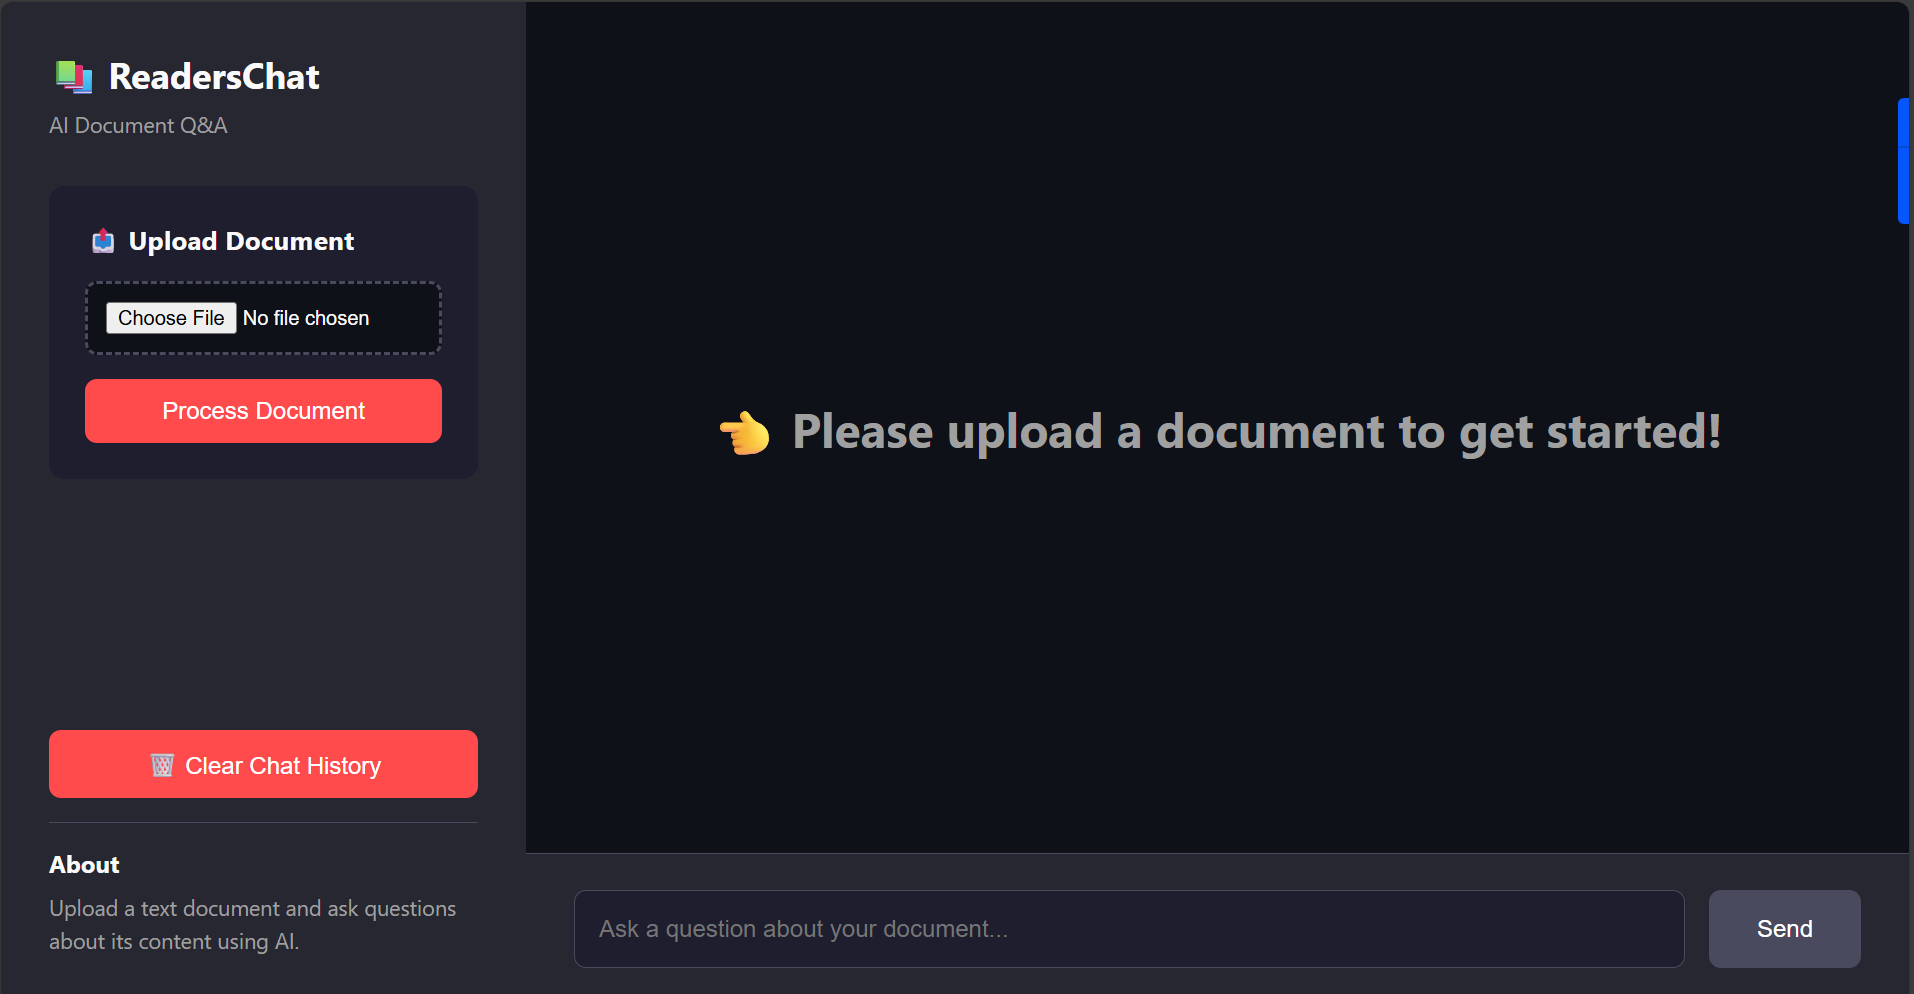
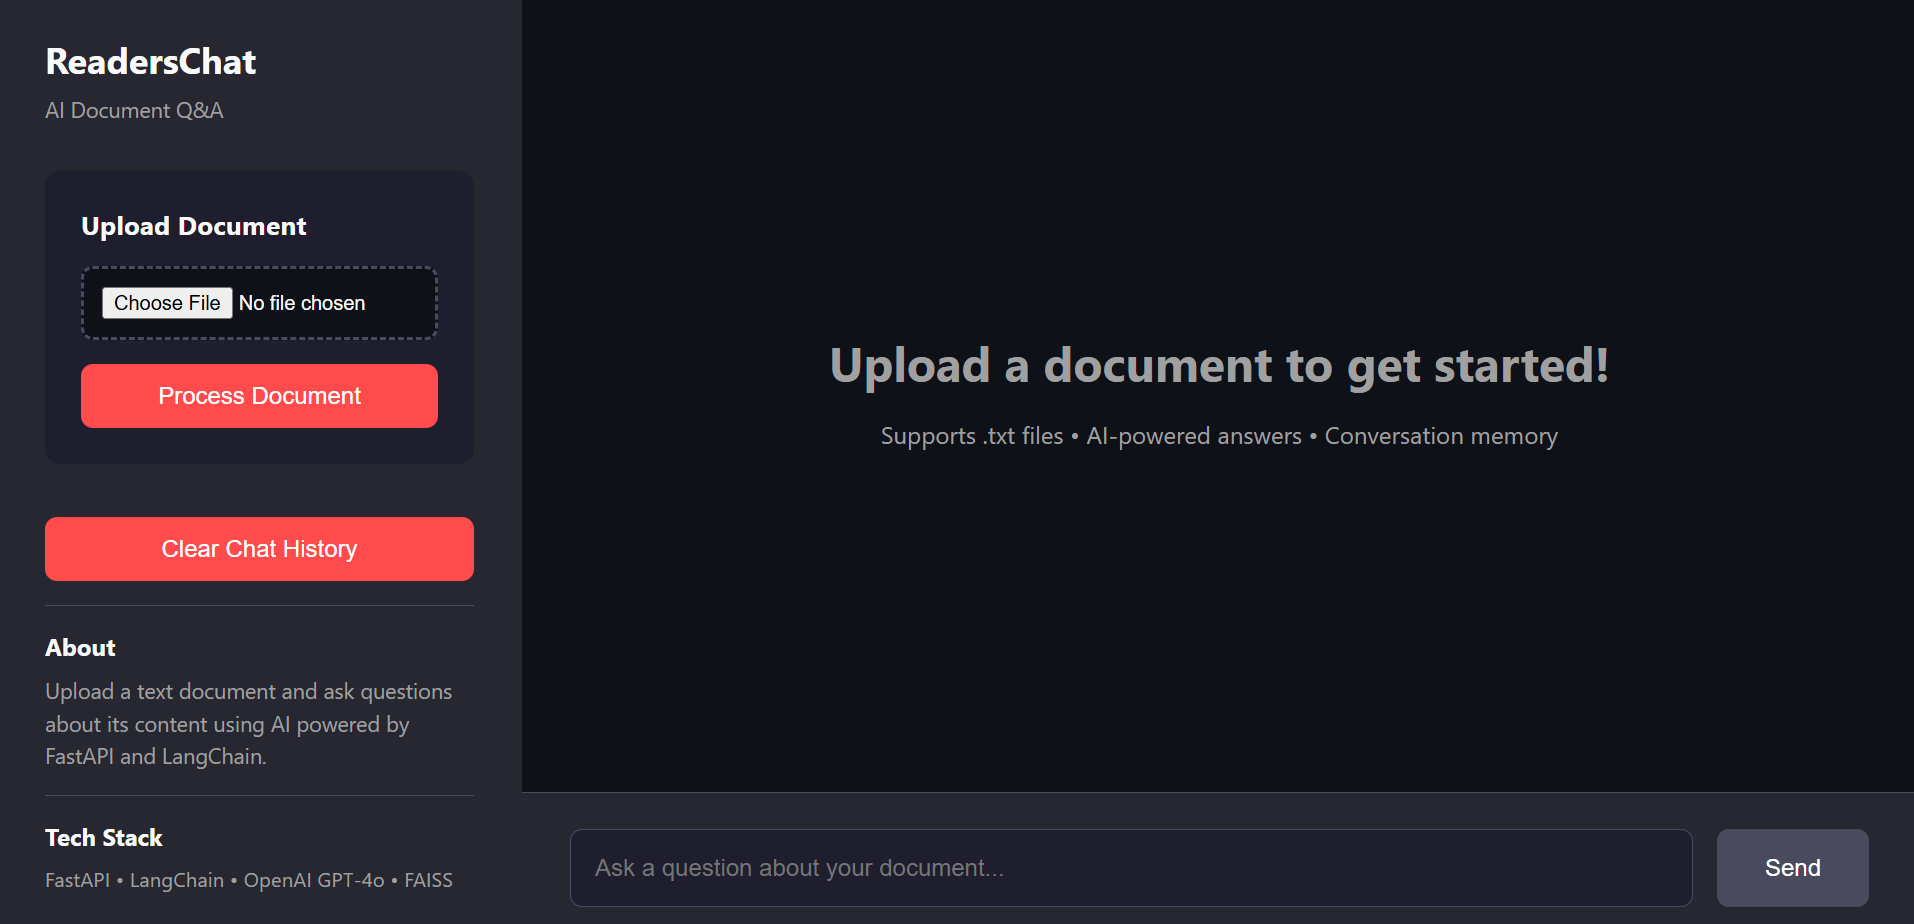
Remove emojis from UI for cleaner interface

diff --git a/client/script.js b/client/script.js
@@ -1,4 +1,100 @@
 let documentLoaded = false;
+let socket = null;
+let currentMessageId = null;
+let currentMessage = '';
+
+// Initialize WebSocket connection
+function connectWebSocket() {
+    const protocol = window.location.protocol === 'https:' ? 'wss:' : 'ws:';
+    const wsUrl = `${protocol}//${window.location.host}/ws/chat`;
+    
+    socket = new WebSocket(wsUrl);
+    
+    socket.onopen = () => {
+        console.log('✅ WebSocket connected');
+    };
+    
+    socket.onmessage = (event) => {
+        const data = JSON.parse(event.data);
+        
+        if (data.type === 'start') {
+            // Create new assistant message container
+            currentMessageId = 'msg-' + Date.now();
+            const chatContainer = document.getElementById('chatContainer');
+            const messageDiv = document.createElement('div');
+            messageDiv.id = currentMessageId;
+            messageDiv.className = 'message assistant-message';
+            messageDiv.innerHTML = `
+                <div class="message-icon assistant-icon">AI</div>
+                <div class="message-content"></div>
+            `;
+            chatContainer.appendChild(messageDiv);
+            currentMessage = '';
+        }
+        else if (data.type === 'token') {
+            // Append token to current message
+            currentMessage += data.content;
+            const messageDiv = document.getElementById(currentMessageId);
+            if (messageDiv) {
+                const contentDiv = messageDiv.querySelector('.message-content');
+                contentDiv.textContent = currentMessage;
+                
+                // Auto-scroll to bottom
+                const chatContainer = document.getElementById('chatContainer');
+                chatContainer.scrollTop = chatContainer.scrollHeight;
+            }
+        }
+        else if (data.type === 'end') {
+            // Message complete
+            console.log('✅ Message complete');
+        }
+        else if (data.type === 'sources') {
+            // Add sources to the message
+            const messageDiv = document.getElementById(currentMessageId);
+            if (messageDiv && data.sources && data.sources.length > 0) {
+                const contentDiv = messageDiv.querySelector('.message-content');
+                const sourcesDiv = document.createElement('div');
+                sourcesDiv.className = 'sources';
+                sourcesDiv.innerHTML = '<h4>Source Excerpts:</h4>';
+                
+                data.sources.forEach((source, index) => {
+                    const sourceItem = document.createElement('div');
+                    sourceItem.className = 'source-item';
+                    sourceItem.textContent = `Source ${index + 1}: ${source}`;
+                    sourcesDiv.appendChild(sourceItem);
+                });
+                
+                contentDiv.appendChild(sourcesDiv);
+            }
+            
+            // Reset current message
+            currentMessage = '';
+            currentMessageId = null;
+        }
+        else if (data.type === 'error') {
+            // Show error message
+            if (currentMessageId) {
+                const messageDiv = document.getElementById(currentMessageId);
+                if (messageDiv) {
+                    messageDiv.remove();
+                }
+            }
+            addMessage(`Error: ${data.content}`, 'assistant');
+            currentMessage = '';
+            currentMessageId = null;
+        }
+    };
+    
+    socket.onerror = (error) => {
+        console.error('❌ WebSocket error:', error);
+        addMessage('Connection error. Please refresh the page.', 'assistant');
+    };
+    
+    socket.onclose = () => {
+        console.log('🔌 WebSocket closed');
+        socket = null;
+    };
+}
 
 async function uploadDocument() {
     const fileInput = document.getElementById('fileInput');
@@ -28,18 +124,23 @@ async function uploadDocument() {
         const data = await response.json();
 
         if (response.ok) {
-            showStatus(` ${data.message}`, 'success');
+            showStatus(`${data.message}`, 'success');
             documentLoaded = true;
             messageInput.disabled = false;
             sendBtn.disabled = false;
             if (welcomeMessage) {
                 welcomeMessage.style.display = 'none';
             }
+            
+            // Initialize WebSocket connection
+            if (!socket || socket.readyState !== WebSocket.OPEN) {
+                connectWebSocket();
+            }
         } else {
-            showStatus(` ${data.detail || 'Error uploading file'}`, 'error');
+            showStatus(`${data.detail || 'Error uploading file'}`, 'error');
         }
     } catch (error) {
-        showStatus(` Error: ${error.message}`, 'error');
+        showStatus(`Error: ${error.message}`, 'error');
     } finally {
         uploadBtn.disabled = false;
         uploadBtn.textContent = 'Process Document';
@@ -56,31 +157,33 @@ async function sendMessage() {
     addMessage(message, 'user');
     messageInput.value = '';
 
-    // Show loading indicator
-    const loadingId = showLoading();
-
-    try {
-        const response = await fetch('/chat', {
-            method: 'POST',
-            headers: {
-                'Content-Type': 'application/json'
-            },
-            body: JSON.stringify({ question: message })
+    // Ensure WebSocket is connected
+    if (!socket || socket.readyState !== WebSocket.OPEN) {
+        connectWebSocket();
+        
+        // Wait for connection
+        await new Promise((resolve) => {
+            const checkConnection = setInterval(() => {
+                if (socket && socket.readyState === WebSocket.OPEN) {
+                    clearInterval(checkConnection);
+                    resolve();
+                }
+            }, 100);
+            
+            // Timeout after 5 seconds
+            setTimeout(() => {
+                clearInterval(checkConnection);
+                addMessage('Failed to connect. Please refresh the page.', 'assistant');
+                resolve();
+            }, 5000);
         });
+    }
 
-        const data = await response.json();
-
-        // Remove loading indicator
-        removeLoading(loadingId);
-
-        if (response.ok && data.answer) {
-            addMessage(data.answer, 'assistant', data.sources);
-        } else {
-            addMessage(`Error: ${data.detail || 'Unknown error'}`, 'assistant');
-        }
-    } catch (error) {
-        removeLoading(loadingId);
-        addMessage(`Error: ${error.message}`, 'assistant');
+    // Send message via WebSocket
+    if (socket && socket.readyState === WebSocket.OPEN) {
+        socket.send(JSON.stringify({ question: message }));
+    } else {
+        addMessage('Connection not ready. Please try again.', 'assistant');
     }
 }
 
@@ -91,7 +194,7 @@ function addMessage(text, role, sources = null) {
 
     const icon = document.createElement('div');
     icon.className = `message-icon ${role}-icon`;
-    icon.textContent = role === 'user' ? '👤' : '🤖';
+    icon.textContent = role === 'user' ? 'You' : 'AI';
 
     const content = document.createElement('div');
     content.className = 'message-content';
@@ -104,7 +207,7 @@ function addMessage(text, role, sources = null) {
     if (sources && sources.length > 0) {
         const sourcesDiv = document.createElement('div');
         sourcesDiv.className = 'sources';
-        sourcesDiv.innerHTML = '<h4>📄 Source Excerpts:</h4>';
+        sourcesDiv.innerHTML = '<h4>Source Excerpts:</h4>';
         
         sources.forEach((source, index) => {
             const sourceItem = document.createElement('div');

diff --git a/client/index.html b/client/index.html
@@ -3,7 +3,7 @@
 <head>
     <meta charset="UTF-8">
     <meta name="viewport" content="width=device-width, initial-scale=1.0">
-    <title>📚 ReadersChat - AI Document Q&A</title>
+    <title>ReadersChat - AI Document Q&A</title>
     <link rel="stylesheet" href="/static/styles.css">
 </head>
 <body>
@@ -11,24 +11,24 @@
         <!-- Sidebar -->
         <aside class="sidebar">
             <div class="sidebar-header">
-                <h2>📚 ReadersChat</h2>
+                <h2>ReadersChat</h2>
                 <p>AI Document Q&A</p>
             </div>
 
             <div class="upload-section">
-                <h3>📤 Upload Document</h3>
+                <h3>Upload Document</h3>
                 <input type="file" id="fileInput" accept=".txt" />
                 <button id="uploadBtn" onclick="uploadDocument()">Process Document</button>
                 <div id="uploadStatus"></div>
             </div>
 
             <div class="sidebar-footer">
-                <button id="clearBtn" onclick="clearChat()">🗑 Clear Chat History</button>
+                <button id="clearBtn" onclick="clearChat()">Clear Chat History</button>
                 <hr>
-                <h4>ℹ About</h4>
+                <h4>About</h4>
                 <p>Upload a text document and ask questions about its content using AI powered by FastAPI and LangChain.</p>
                 <hr>
-                <h4>⚡ Tech Stack</h4>
+                <h4>Tech Stack</h4>
                 <p style="font-size: 0.85rem;">FastAPI • LangChain • OpenAI GPT-4o • FAISS</p>
             </div>
         </aside>
@@ -38,7 +38,7 @@
             <div class="chat-container" id="chatContainer">
                 <div class="welcome-message" id="welcomeMessage">
                     <div style="text-align: center;">
-                        <h1>👈 Upload a document to get started!</h1>
+                        <h1>Upload a document to get started!</h1>
                         <p style="color: #a0a0a0; margin-top: 1rem;">
                             Supports .txt files • AI-powered answers • Conversation memory
                         </p>

diff --git a/server/main.py b/server/main.py
@@ -3,7 +3,7 @@ ReadersChat FastAPI Server
 A FastAPI-based document Q&A chatbot using LangChain and OpenAI
 """
 
-from fastapi import FastAPI, File, UploadFile, HTTPException
+from fastapi import FastAPI, File, UploadFile, HTTPException, WebSocket, WebSocketDisconnect
 from fastapi.middleware.cors import CORSMiddleware
 from fastapi.staticfiles import StaticFiles
 from fastapi.responses import FileResponse
@@ -13,6 +13,7 @@ import os
 from pathlib import Path
 import shutil
 from dotenv import load_dotenv
+import asyncio
 
 # LangChain imports
 from langchain_openai import ChatOpenAI, OpenAIEmbeddings
@@ -214,6 +215,102 @@ async def clear_history():
     global chat_history
     chat_history = []
     return {"message": "History cleared"}
+
+
+@app.websocket("/ws/chat")
+async def websocket_chat(websocket: WebSocket):
+    """WebSocket endpoint for streaming chat with smart context detection"""
+    await websocket.accept()
+    
+    try:
+        while True:
+            data = await websocket.receive_json()
+            question = data.get("question", "")
+            
+            if not question:
+                await websocket.send_json({"type": "error", "content": "Question cannot be empty"})
+                continue
+            
+            if vector_store is None:
+                await websocket.send_json({"type": "error", "content": "Please upload a document first"})
+                continue
+            
+            try:
+                # Detect if question is a greeting (no document context needed)
+                greeting_words = ['hello', 'hi', 'hey', 'greetings', 'good morning', 'good afternoon', 
+                                 'good evening', 'how are you', 'whats up', "what's up", 'sup', 'howdy']
+                is_greeting = any(word in question.lower() for word in greeting_words) and len(question.strip()) < 30
+                
+                # Format chat history
+                history_text = "\n".join([
+                    f"Human: {msg['question']}\nAssistant: {msg['answer']}"
+                    for msg in chat_history[-MAX_HISTORY:]
+                ]) if chat_history else "No previous conversation."
+                
+                await websocket.send_json({"type": "start"})
+                full_response = ""
+                
+                if is_greeting:
+                    # Handle greeting without document retrieval - NO SOURCES
+                    prompt_text = f"""You are a helpful AI assistant for document Q&A.
+Respond to this greeting naturally and briefly. 
+
+Chat History:
+{history_text}
+
+User: {question}"""
+                    
+                    messages = [{"role": "user", "content": prompt_text}]
+                    async for chunk in llm.astream(messages):
+                        token = chunk.content
+                        full_response += token
+                        await websocket.send_json({"type": "token", "content": token})
+                    
+                    await websocket.send_json({"type": "end"})
+                    # NO sources for greetings
+                    
+                else:
+                    # Normal question - retrieve documents and send sources
+                    retriever = vector_store.as_retriever(search_kwargs={"k": 3})
+                    relevant_docs = retriever.invoke(question)
+                    context = "\n\n".join(doc.page_content for doc in relevant_docs)
+                    
+                    template = f"""You are a helpful assistant answering questions about a document.
+
+Chat History:
+{history_text}
+
+Context from document:
+{context}
+
+Question: {question}
+
+Answer:"""
+                    
+                    messages = [{"role": "user", "content": template}]
+                    async for chunk in llm.astream(messages):
+                        token = chunk.content
+                        full_response += token
+                        await websocket.send_json({"type": "token", "content": token})
+                    
+                    await websocket.send_json({"type": "end"})
+                    
+                    # Send sources for document questions
+                    sources = [doc.page_content for doc in relevant_docs]
+                    await websocket.send_json({"type": "sources", "sources": sources})
+                
+                # Save to history
+                chat_history.append({"question": question, "answer": full_response})
+                if len(chat_history) > MAX_HISTORY:
+                    chat_history[:] = chat_history[-MAX_HISTORY:]
+                
+            except Exception as e:
+                await websocket.send_json({"type": "error", "content": f"Error: {str(e)}"})
+    
+    except WebSocketDisconnect:
+        print("WebSocket disconnected")
+    except Exception as e:
+        print(f"WebSocket error: {str(e)}")
 
 
 @app.get("/health")
